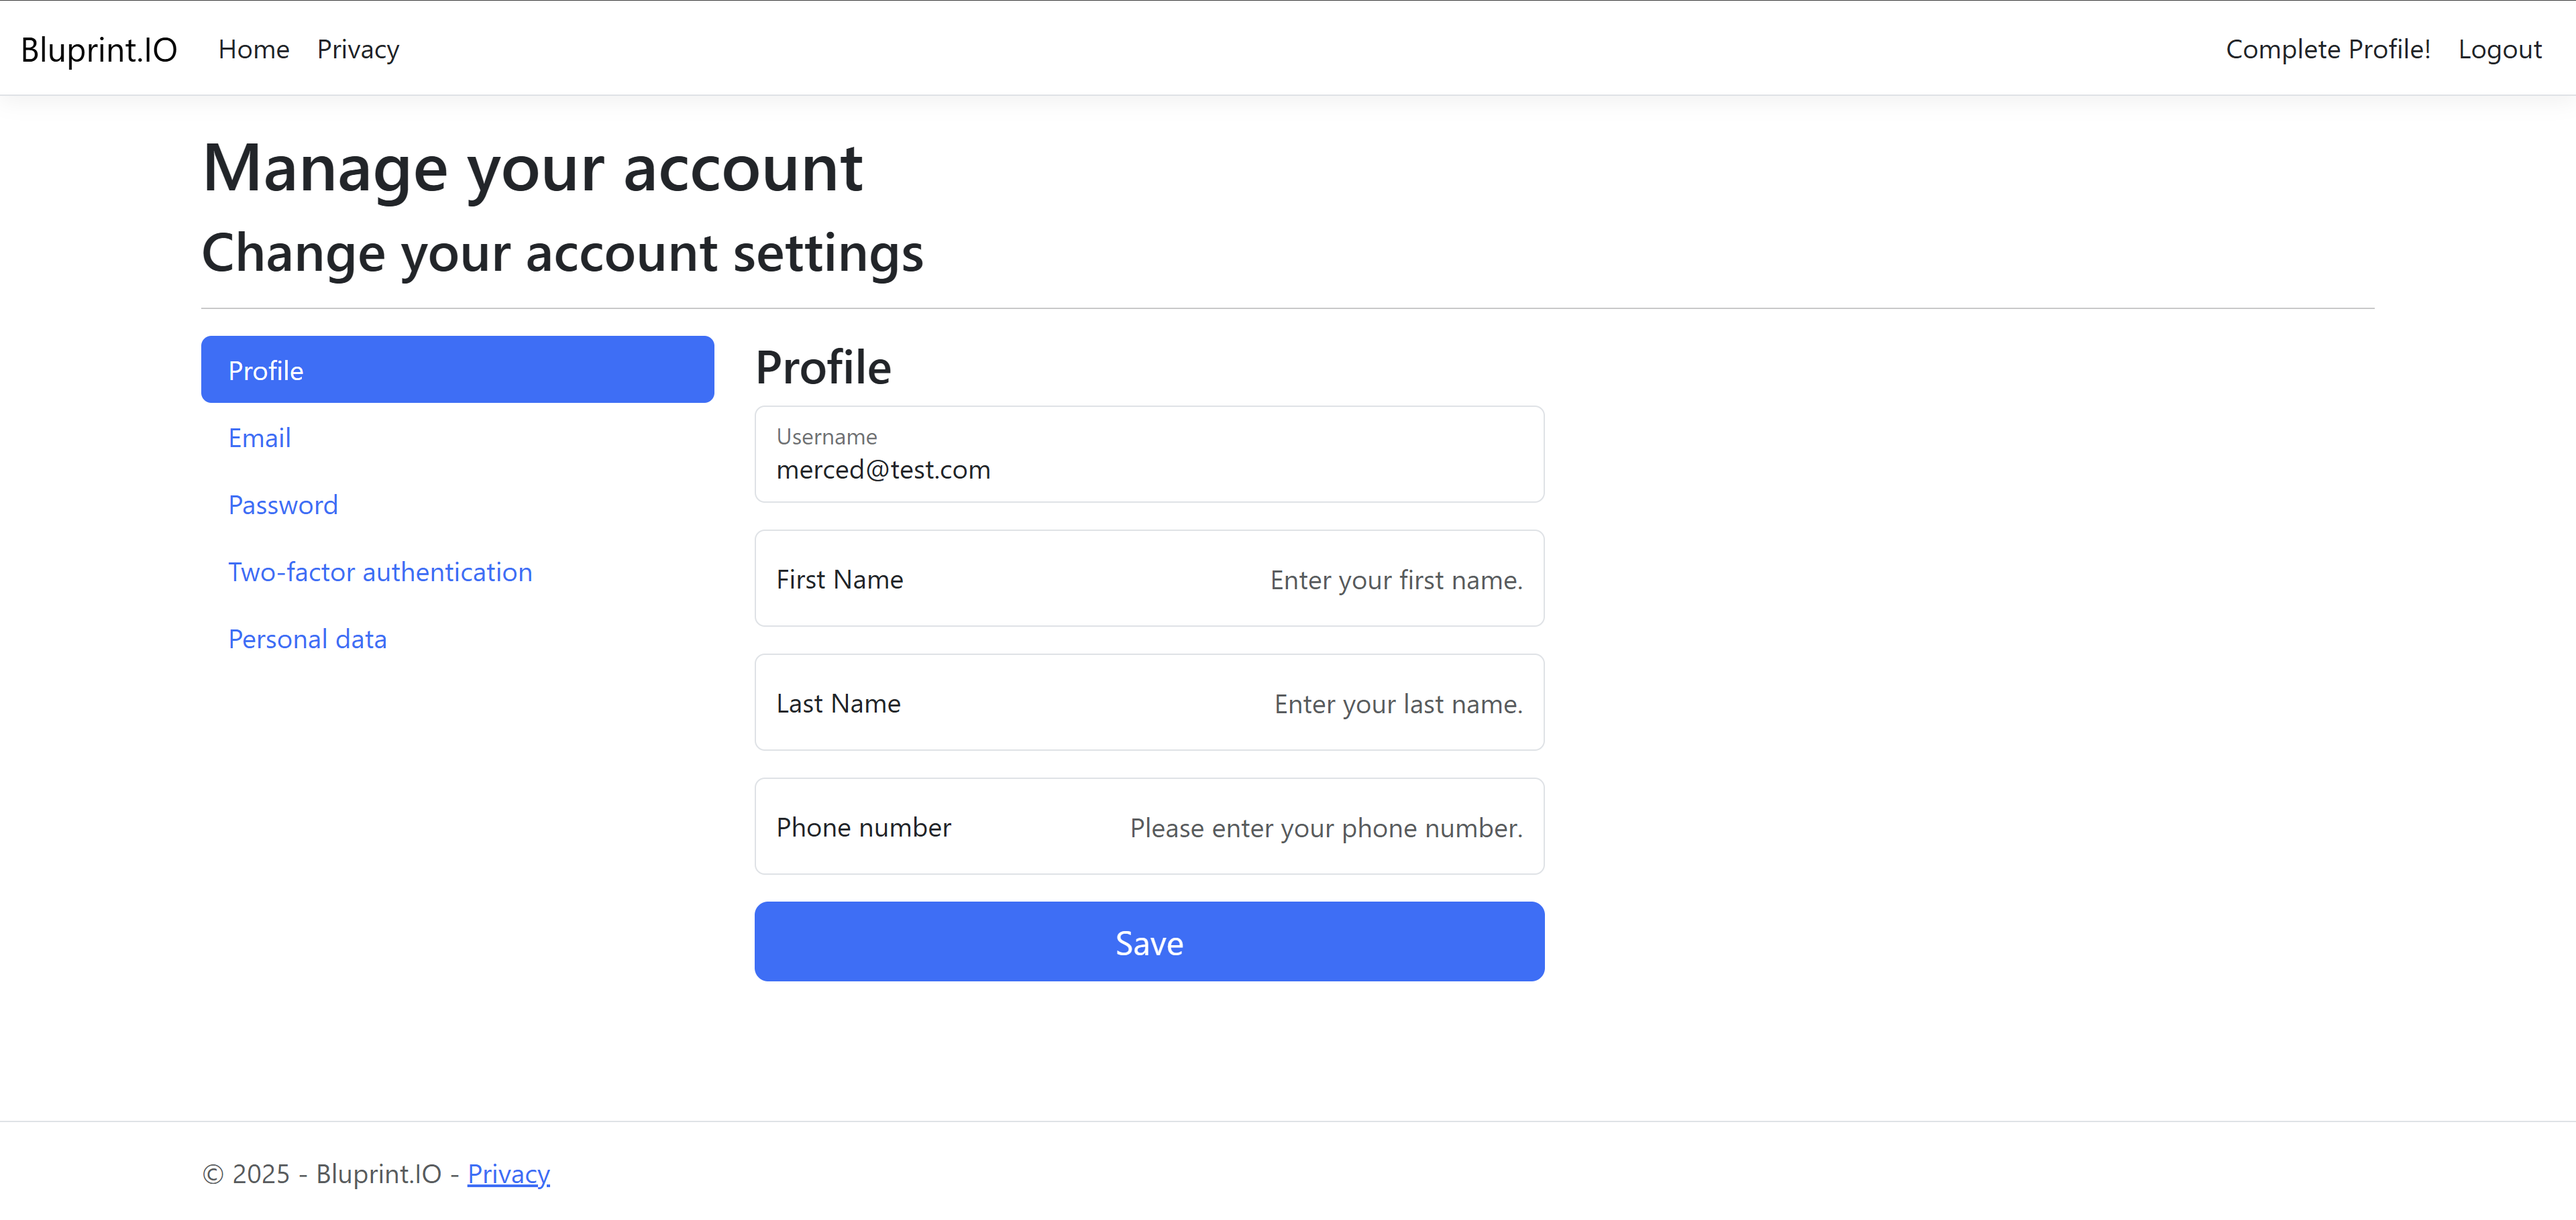
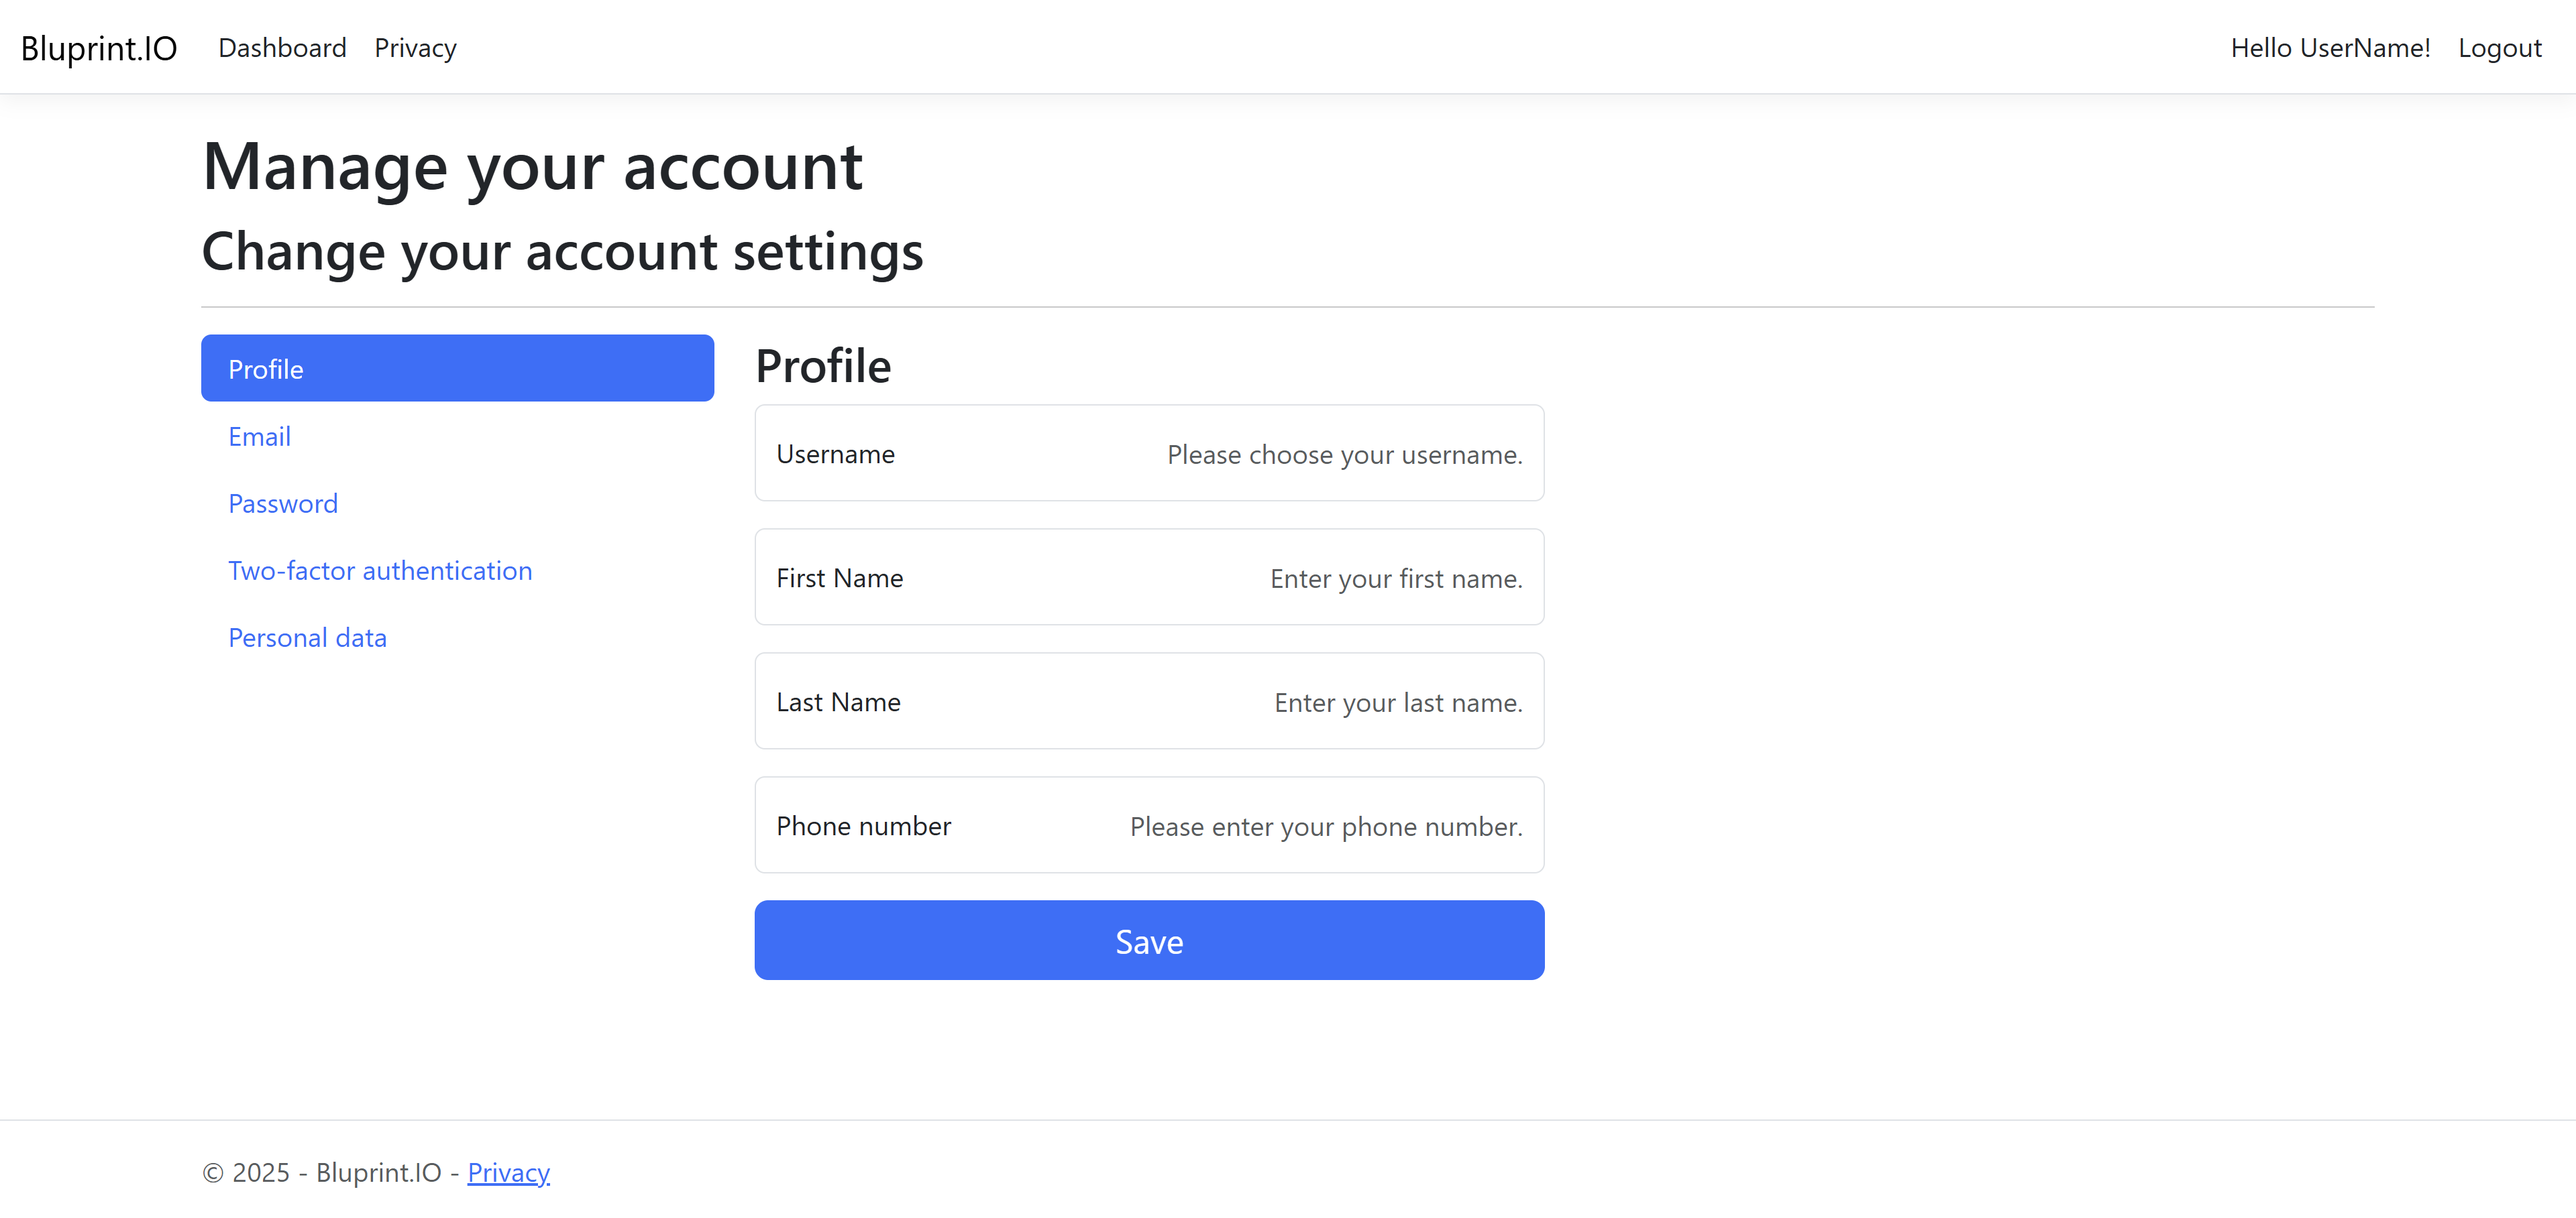
feat(dashboard): add working user dashboard foundation with Blueprint model
- Renamed Home nav link to 'Dashboard' when user is logged in
- Added new `Blueprint` EF Core model and migration for user projects
- Wired `ApplicationDbContext` to store blueprints linked to `ApplicationUser`
- Updated `HomeController` to pass user blueprints to the dashboard view
- Improved `Index.cshtml` to conditionally display dashboard with project cards or an empty state
- Updated layout, homepage, and profile screenshots
- Confirmed we now have a solid, working dashboard foundation for users to create and see their own projects

diff --git a/Migrations/20250708130626_AddBlueprints.cs b/Migrations/20250708130626_AddBlueprints.cs
@@ -1,0 +1,51 @@
+using System;
+using Microsoft.EntityFrameworkCore.Migrations;
+
+#nullable disable
+
+namespace Bluprint.IO.Migrations
+{
+    /// <inheritdoc />
+    public partial class AddBlueprints : Migration
+    {
+        /// <inheritdoc />
+        protected override void Up(MigrationBuilder migrationBuilder)
+        {
+            migrationBuilder.CreateTable(
+                name: "Blueprints",
+                columns: table => new
+                {
+                    Id = table.Column<int>(type: "int", nullable: false)
+                        .Annotation("SqlServer:Identity", "1, 1"),
+                    Title = table.Column<string>(type: "nvarchar(max)", nullable: true),
+                    Description = table.Column<string>(type: "nvarchar(max)", nullable: true),
+                    FilePath = table.Column<string>(type: "nvarchar(max)", nullable: true),
+                    ThumbnailUrl = table.Column<string>(type: "nvarchar(max)", nullable: true),
+                    IsPublic = table.Column<bool>(type: "bit", nullable: false),
+                    CreatedAt = table.Column<DateTime>(type: "datetime2", nullable: false),
+                    OwnerId = table.Column<string>(type: "nvarchar(450)", nullable: true)
+                },
+                constraints: table =>
+                {
+                    table.PrimaryKey("PK_Blueprints", x => x.Id);
+                    table.ForeignKey(
+                        name: "FK_Blueprints_AspNetUsers_OwnerId",
+                        column: x => x.OwnerId,
+                        principalTable: "AspNetUsers",
+                        principalColumn: "Id");
+                });
+
+            migrationBuilder.CreateIndex(
+                name: "IX_Blueprints_OwnerId",
+                table: "Blueprints",
+                column: "OwnerId");
+        }
+
+        /// <inheritdoc />
+        protected override void Down(MigrationBuilder migrationBuilder)
+        {
+            migrationBuilder.DropTable(
+                name: "Blueprints");
+        }
+    }
+}

diff --git a/Controllers/HomeController.cs b/Controllers/HomeController.cs
@@ -1,21 +1,39 @@
 using System.Diagnostics;
 using Microsoft.AspNetCore.Mvc;
 using Bluprint.IO.Models;
+using Bluprint.IO.Data;
+using Microsoft.AspNetCore.Identity;
+using Microsoft.EntityFrameworkCore;
 
 namespace Bluprint.IO.Controllers;
 
 public class HomeController : Controller
 {
     private readonly ILogger<HomeController> _logger;
+    private readonly ApplicationDbContext _context;
+    private readonly UserManager<ApplicationUser> _userManager;
 
-    public HomeController(ILogger<HomeController> logger)
+    public HomeController(ILogger<HomeController> logger, ApplicationDbContext context, UserManager<ApplicationUser> userManager)
     {
         _logger = logger;
+        _context = context;
+        _userManager = userManager;
     }
 
-    public IActionResult Index()
+    public async Task<IActionResult> Index()
     {
-        return View();
+        var model = new HomeViewModel();
+
+        if (User.Identity != null && User.Identity.IsAuthenticated)
+        {
+            var userId = _userManager.GetUserId(User);
+
+            model.Blueprints = await _context.Blueprints
+                .Where(b => b.OwnerId == userId)
+                .ToListAsync();
+        }
+
+        return View(model);
     }
 
     public IActionResult Privacy()

diff --git a/Migrations/20250708130626_AddBlueprints.Designer.cs b/Migrations/20250708130626_AddBlueprints.Designer.cs
@@ -4,6 +4,7 @@ using Bluprint.IO.Data;
 using Microsoft.EntityFrameworkCore;
 using Microsoft.EntityFrameworkCore.Infrastructure;
 using Microsoft.EntityFrameworkCore.Metadata;
+using Microsoft.EntityFrameworkCore.Migrations;
 using Microsoft.EntityFrameworkCore.Storage.ValueConversion;
 
 #nullable disable
@@ -11,9 +12,11 @@ using Microsoft.EntityFrameworkCore.Storage.ValueConversion;
 namespace Bluprint.IO.Migrations
 {
     [DbContext(typeof(ApplicationDbContext))]
-    partial class ApplicationDbContextModelSnapshot : ModelSnapshot
+    [Migration("20250708130626_AddBlueprints")]
+    partial class AddBlueprints
     {
-        protected override void BuildModel(ModelBuilder modelBuilder)
+        /// <inheritdoc />
+        protected override void BuildTargetModel(ModelBuilder modelBuilder)
         {
 #pragma warning disable 612, 618
             modelBuilder

diff --git a/Models/Blueprint.cs b/Models/Blueprint.cs
@@ -1,0 +1,16 @@
+namespace Bluprint.IO.Models
+{
+    public class Blueprint
+    {
+        public int Id { get; set; }
+        public string? Title { get; set; }
+        public string? Description { get; set; }
+        public string? FilePath { get; set; }
+        public string? ThumbnailUrl { get; set; }
+        public bool IsPublic { get; set; } = false;
+        public DateTime CreatedAt { get; set; } = DateTime.UtcNow;
+
+        public string? OwnerId { get; set; }
+        public ApplicationUser? Owner { get; set; }
+    }
+}

diff --git a/Models/HomeViewModel.cs b/Models/HomeViewModel.cs
@@ -1,0 +1,7 @@
+namespace Bluprint.IO.Models
+{
+    public class HomeViewModel
+    {
+        public List<Blueprint> Blueprints { get; set; } = new(); // Safe default empty list
+    }
+}

diff --git a/Data/ApplicationDbContext.cs b/Data/ApplicationDbContext.cs
@@ -10,5 +10,7 @@ namespace Bluprint.IO.Data
             : base(options)
         {
         }
+
+        public DbSet<Blueprint> Blueprints { get; set; }
     }
 }

diff --git a/README.md b/README.md
@@ -89,6 +89,10 @@ At its core, it’s about turning one static blueprint into a living guide — k
 
 ![Home Page](assets/homepage.png)
 
+**Dashboard:** *(When Logged in)*
+
+![Dashboard Page](assets/dashboard-page.png)
+
 **Register page:**
 
 ![Register Page](assets/register-page.png)
